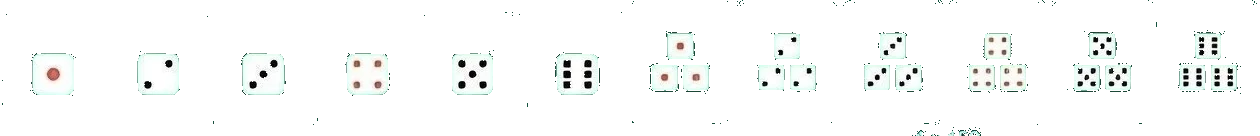
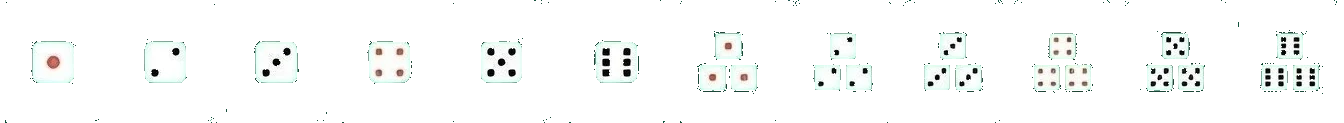
fix: v1.10.1 网格热区对齐底图凹槽线
按台面外框线重测左右栏坐标，黄键贴齐上下格线，避免压住 1x5/1x8 文案或留缝。

diff --git a/game.html b/game.html
@@ -6,9 +6,9 @@
   <meta name="robots" content="noindex,nofollow" />
   <title>Forest Group · 骰宝</title>
   <!-- 只预加载台面主图；筹码很小，随页面异步即可，避免抢带宽 -->
-  <link rel="preload" as="image" href="pc-full-v107.webp?v=v1.10" type="image/webp" fetchpriority="high" />
-  <link rel="preload" as="image" href="assets/pair-dice/atlas.webp?v=v1.10" type="image/webp" />
-  <link rel="preload" as="image" href="assets/pair-dice/left-atlas.webp?v=v1.10" type="image/webp" />
+  <link rel="preload" as="image" href="pc-full-v107.webp?v=v1.10.1" type="image/webp" fetchpriority="high" />
+  <link rel="preload" as="image" href="assets/pair-dice/atlas.webp?v=v1.10.1" type="image/webp" />
+  <link rel="preload" as="image" href="assets/pair-dice/left-atlas.webp?v=v1.10.1" type="image/webp" />
   <style>
     :root {
       --stage-w: 2188;
@@ -308,7 +308,7 @@
       z-index: 1;
       pointer-events: none;
       opacity: 0;
-      background-image: url("assets/pair-dice/atlas.webp?v=v1.10");
+      background-image: url("assets/pair-dice/atlas.webp?v=v1.10.1");
       background-repeat: no-repeat;
       background-size: 2100% 100%;
     }
@@ -355,7 +355,7 @@
       z-index: 1;
       pointer-events: none;
       opacity: 0;
-      background-image: url("assets/pair-dice/left-atlas.webp?v=v1.10");
+      background-image: url("assets/pair-dice/left-atlas.webp?v=v1.10.1");
       background-repeat: no-repeat;
       background-size: 1200% 100%;
     }
@@ -792,8 +792,8 @@
   <div class="frame">
     <div class="stage">
       <picture>
-        <source srcset="pc-full-v107.webp?v=v1.10" type="image/webp" />
-        <img class="bg" id="bgImg" src="pc-full-v107.jpg?v=v1.10" alt="骰宝" width="2188" height="1393" decoding="async" fetchpriority="high" draggable="false" />
+        <source srcset="pc-full-v107.webp?v=v1.10.1" type="image/webp" />
+        <img class="bg" id="bgImg" src="pc-full-v107.jpg?v=v1.10.1" alt="骰宝" width="2188" height="1393" decoding="async" fetchpriority="high" draggable="false" />
       </picture>
 
       <div class="timer" id="timer" style="--p:1"><span id="timerNum">22</span></div>
@@ -1029,7 +1029,7 @@
   </div>
   <script>
     (async function () {
-      const V = 'v1.10';
+      const V = 'v1.10.1';
       const DENOMS = [10, 20, 50, 100, 200, 500, 1000, 2000, 5000];
       const VISIBLE = 4;
       const SLOT_LEFT = [69.104, 74.543, 79.982, 85.283];
@@ -1058,19 +1058,19 @@
         y: [716, 868, 998],
         xRow0: [714, 1096, 1516],
         xRow1: [714, 922, 1270, 1516],
-        /* 竖长整框：与底图原模块同高，点选黄面铺满整格（不再是中间小横块） */
-        yPair0: [678, 778],
-        yPair1: [778, 868],
-        yPair2: [892, 998],
-        xPair0: [1532, 1624, 1716, 1808, 1901, 1994, 2086, 2176],
-        xPair1: [1532, 1612, 1694, 1774, 1854, 1936, 2016, 2097, 2177],
-        xPair2: [1530, 1638, 1744, 1851, 1958, 2064, 2172],
-        ySing: [680, 798],
-        yTrip: [848, 988],
-        xSing: [9, 117, 225, 334, 442, 550, 658],
-        xTrip: [14, 118, 224, 330, 438, 544, 650],
+        /* 与底图凹槽线严丝合缝（外框线实测） */
+        yPair0: [682, 776],
+        yPair1: [776, 868],
+        yPair2: [898, 974],
+        xPair0: [1534, 1625, 1713, 1805, 1897, 1989, 2086, 2175],
+        xPair1: [1522, 1613, 1690, 1774, 1855, 1936, 2017, 2094, 2174],
+        xPair2: [1534, 1634, 1748, 1851, 1955, 2062, 2172],
+        ySing: [682, 807],
+        yTrip: [849, 974],
+        xSing: [13, 121, 229, 338, 444, 554, 654],
+        xTrip: [13, 115, 220, 334, 438, 545, 647],
         inset: 4,
-        pairInset: 2,
+        pairInset: 1,
       };
       const BET_CELLS = {
         small: { y0: 0, y1: 1, xKey: 'xRow0', x0: 0, x1: 1 },

diff --git a/lobby.html b/lobby.html
@@ -191,12 +191,12 @@
       height: 118px;
       background:
         linear-gradient(180deg, transparent 40%, rgba(0,0,0,.75)),
-        url("assets/lobby-thumb.webp?v=v1.10") center / cover no-repeat;
+        url("assets/lobby-thumb.webp?v=v1.10.1") center / cover no-repeat;
     }
     .card.featured .thumb {
       background:
         linear-gradient(180deg, transparent 35%, rgba(0,0,0,.8)),
-        url("assets/lobby-thumb.webp?v=v1.10") center 30% / cover no-repeat;
+        url("assets/lobby-thumb.webp?v=v1.10.1") center 30% / cover no-repeat;
     }
     .card .meta {
       padding: .65rem .75rem .75rem;
@@ -284,10 +284,10 @@
 
   <script>
     (function () {
-      const GAME = 'game.html?v=v1.10';
+      const GAME = 'game.html?v=v1.10.1';
       try {
         if (sessionStorage.getItem('fg_sicbo_auth') !== '1') {
-          location.replace('index.html?v=v1.10');
+          location.replace('index.html?v=v1.10.1');
           return;
         }
       } catch (_) { /* ignore */ }
@@ -352,7 +352,7 @@
 
       document.getElementById('logoutBtn').addEventListener('click', () => {
         try { sessionStorage.removeItem('fg_sicbo_auth'); } catch (_) {}
-        location.href = 'index.html?v=v1.10';
+        location.href = 'index.html?v=v1.10.1';
       });
 
       paint();

diff --git a/loading.html b/loading.html
@@ -11,7 +11,7 @@
     .load {
       position: relative;
       width: 100%; height: 100%;
-      background: #050505 url("assets/ref-loading.jpg?v=v1.10") center / cover no-repeat;
+      background: #050505 url("assets/ref-loading.jpg?v=v1.10.1") center / cover no-repeat;
     }
     .load::after {
       content: "";
@@ -64,14 +64,14 @@
     (function () {
       try {
         if (sessionStorage.getItem('fg_sicbo_auth') !== '1') {
-          location.replace('index.html?v=v1.10');
+          location.replace('index.html?v=v1.10.1');
           return;
         }
       } catch (_) { /* ignore */ }
 
       const fill = document.getElementById('fill');
       const txt = document.getElementById('txt');
-      const LOBBY = 'lobby.html?v=v1.10';
+      const LOBBY = 'lobby.html?v=v1.10.1';
       const duration = 1600; // 约 1.6 秒缓存页
       const t0 = performance.now();
 

diff --git a/index.html b/index.html
@@ -268,7 +268,7 @@
 
   <script>
     (function () {
-      const NEXT = 'loading.html?v=v1.10';
+      const NEXT = 'loading.html?v=v1.10.1';
       const form = document.getElementById('loginForm');
       const user = document.getElementById('user');
       const pass = document.getElementById('pass');
